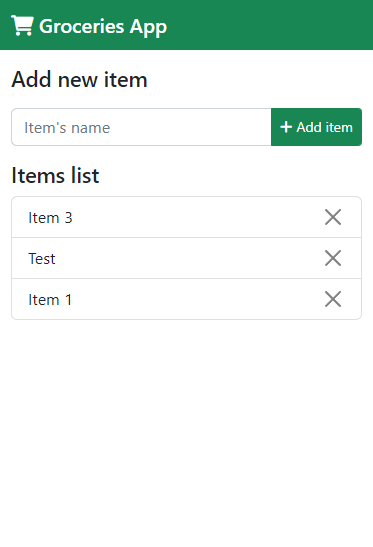
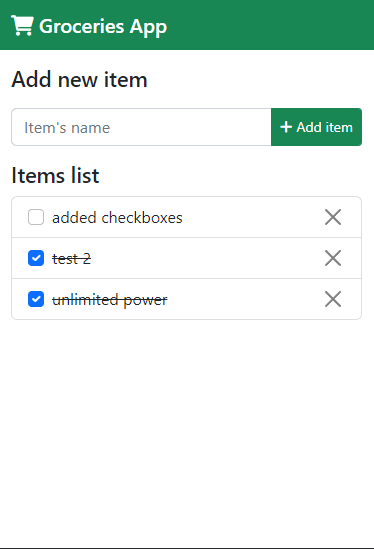
Added checkboxes and new function to submit item with enter

diff --git a/js/main.js b/js/main.js
@@ -5,25 +5,35 @@ const deleteBtn = document.querySelector("#delete-btn");
 
 const createNewItem = () => {
   const newItem = document.createElement("li");
-  newItem.classList.add(
-    "list-group-item",
-    "d-flex",
-    "gap-2",
-    "justify-content-between"
+  newItem.classList.add("list-group-item", "align-items-center");
+
+  const addCheckBox = document.createElement("input");
+  addCheckBox.classList.add("form-check-input", "me-2", "float-start");
+  addCheckBox.setAttribute("id", "flexCheckDefault");
+  addCheckBox.setAttribute("type", "checkbox");
+  addCheckBox.addEventListener("click", () =>
+    newItem.classList.toggle("checked")
   );
 
   const newCloseBtn = document.createElement("button");
-  newCloseBtn.setAttribute("class", "btn-close");
+  newCloseBtn.classList.add("btn-close", "float-end");
   newCloseBtn.setAttribute("id", "delete-btn");
   newCloseBtn.addEventListener("click", () => newItem.remove());
 
   if (itemName.value != "") {
     newItem.innerText = itemName.value;
+    newItem.appendChild(addCheckBox);
     newItem.appendChild(newCloseBtn);
     itemList.insertBefore(newItem, itemList.firstChild);
     itemName.value = "";
   } else {
     alert("Item field can't be blank");
+  }
+};
+
+addWithEnter = (event) => {
+  if (event.keyCode == 13) {
+    addBtn.click();
   }
 };
 

diff --git a/index.html b/index.html
@@ -35,6 +35,7 @@
               class="form-control"
               id="item-name"
               placeholder="Item's name"
+              onkeypress="addWithEnter(event)"
             />
             <button
               class="btn btn-success btn-sm"

diff --git a/css/style.css b/css/style.css
@@ -1,0 +1,3 @@
+.checked {
+  text-decoration: line-through;
+}
